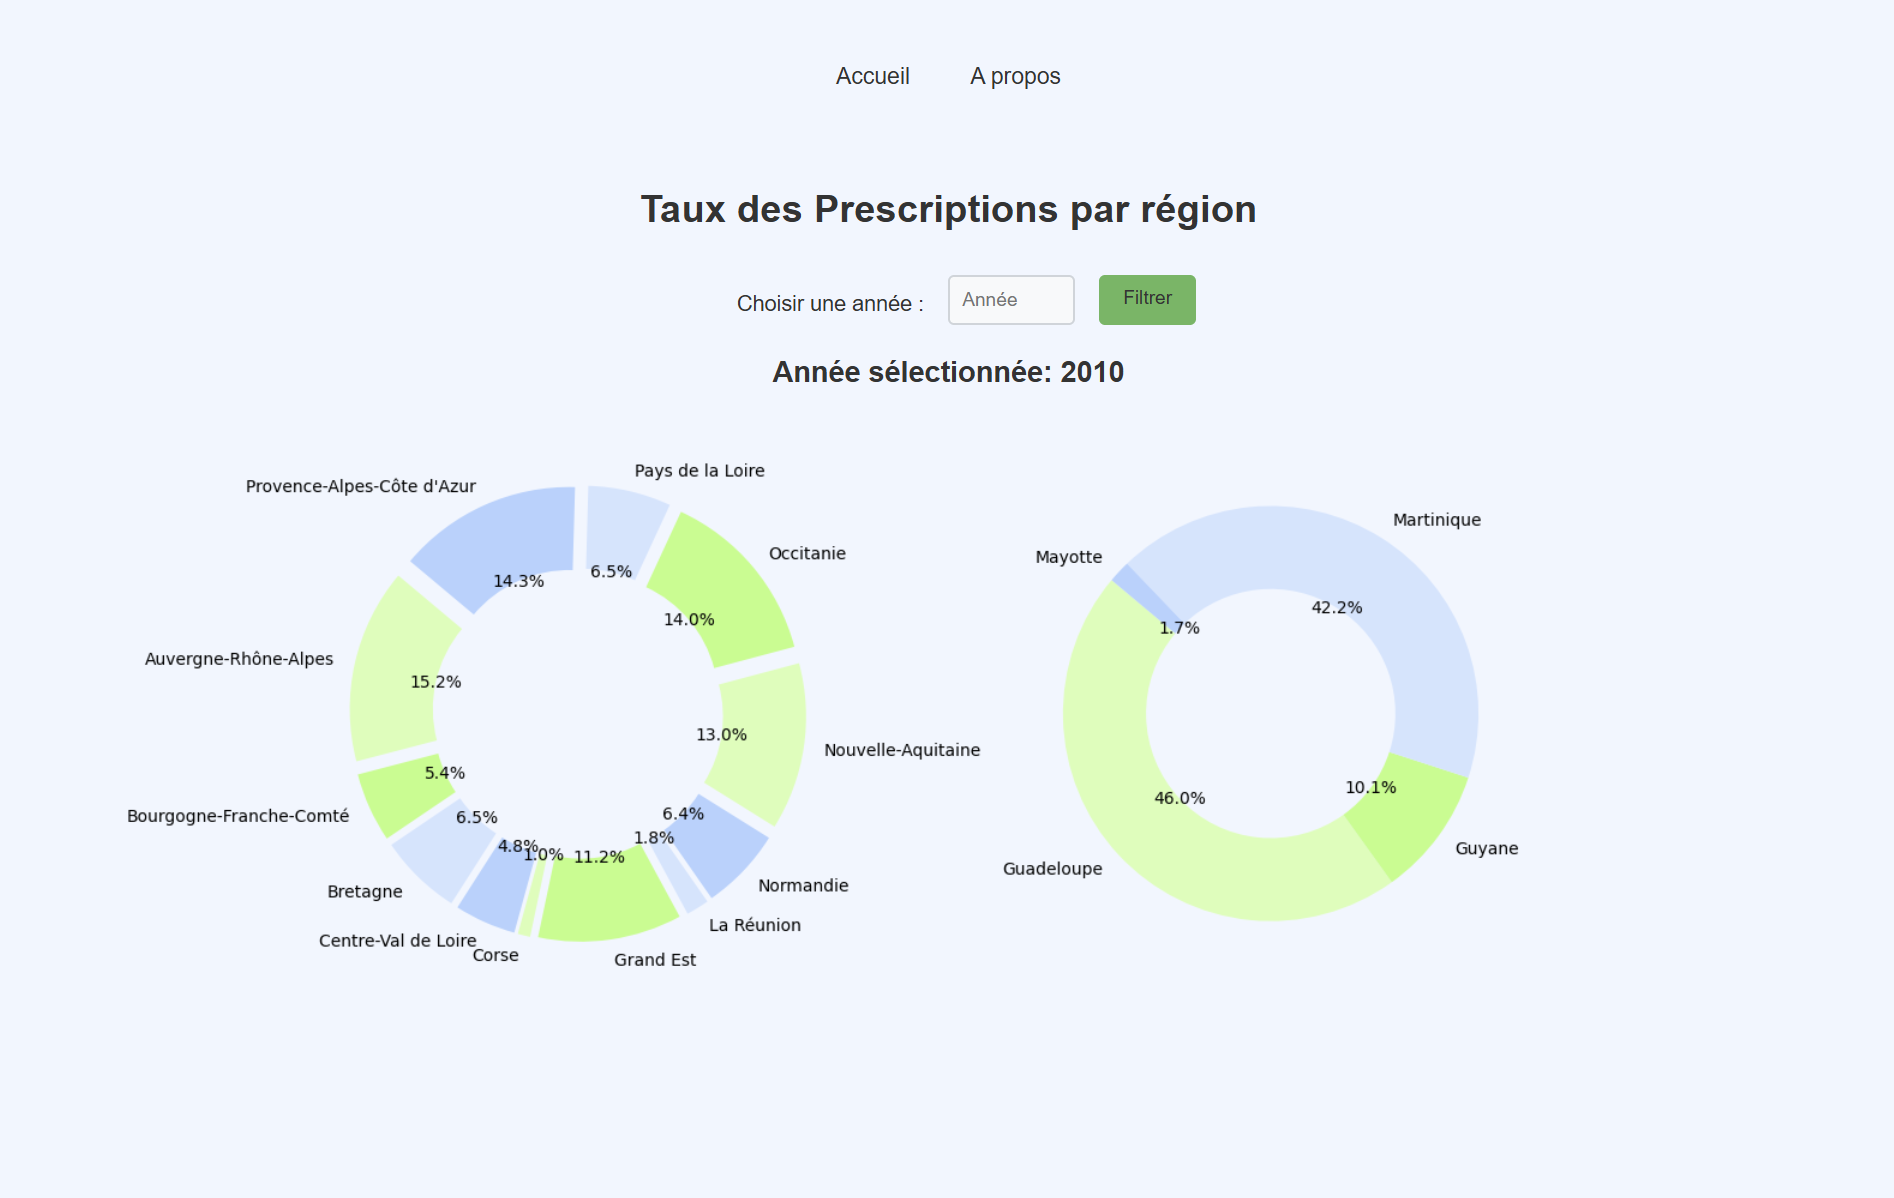
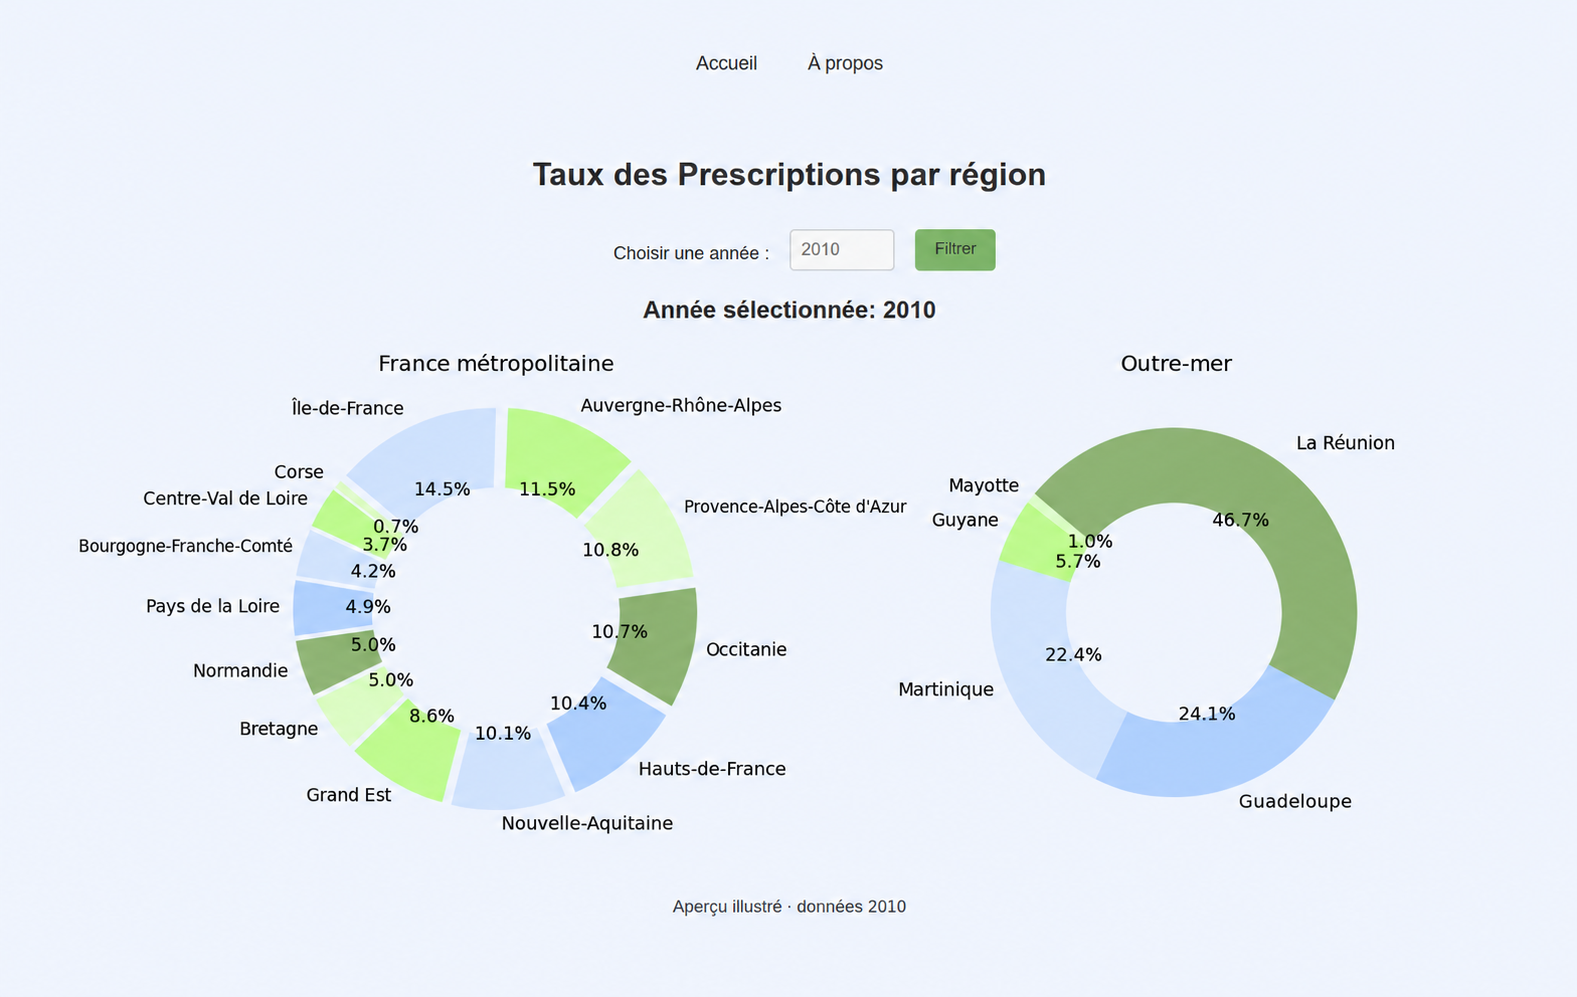
Corriger l’aperçu illustré des prescriptions régionales de 2010

diff --git a/README.md b/README.md
@@ -4,7 +4,7 @@ Data Ameli est une application web qui permet d’explorer les données agrégé
 
 ## Aperçus du projet
 
-Captures du projet universitaire, fournies pour illustrer l’interface. Elles précèdent les corrections des calculs et du regroupement des régions ; la démonstration actuelle utilise la base complète de 2010 à 2023.
+L’accueil et la carte sont des captures du projet universitaire. La capture d’accueil montre une ancienne démonstration ; la version actuelle utilise la base complète de 2010 à 2023.
 
 ### Accueil
 
@@ -20,9 +20,9 @@ Sélection d’une région sur la carte pour consulter les professions de santé
 
 ### Prescriptions par région
 
-[![Graphiques en anneaux des prescriptions par région pour 2010](docs/04-prescriptions-regions.png)](docs/04-prescriptions-regions.png)
+[![Aperçu illustré des prescriptions par région pour 2010](docs/04-prescriptions-regions.png)](docs/04-prescriptions-regions.png)
 
-Sélection d’une année et affichage des prescriptions en anneaux.
+Aperçu illustré réalisé à partir des résultats du code actuel pour 2010 : 13 régions métropolitaines et 5 régions d’outre-mer. Les pourcentages sont calculés séparément dans chaque groupe. Ce visuel retouché n’est pas une capture directe de l’application.
 
 ## Lancer en local
 
